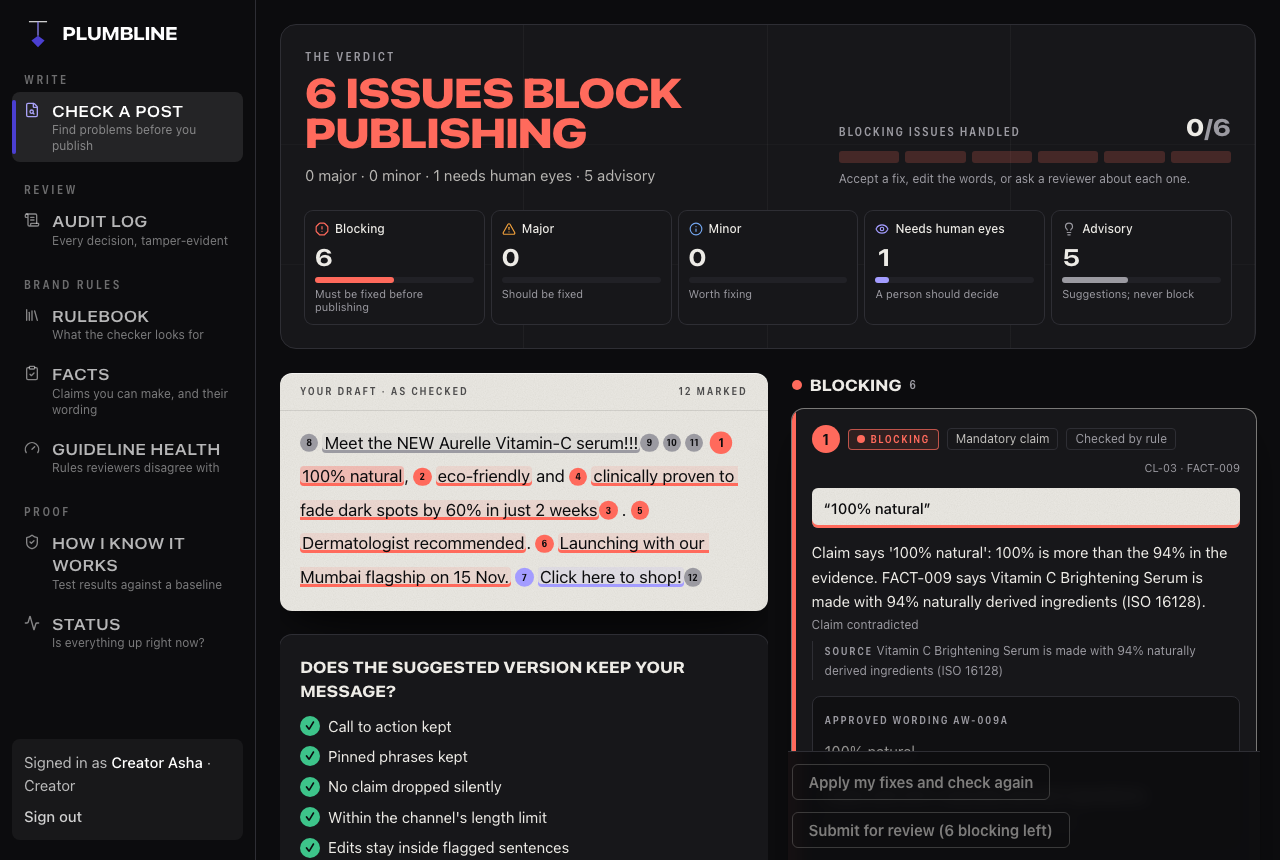
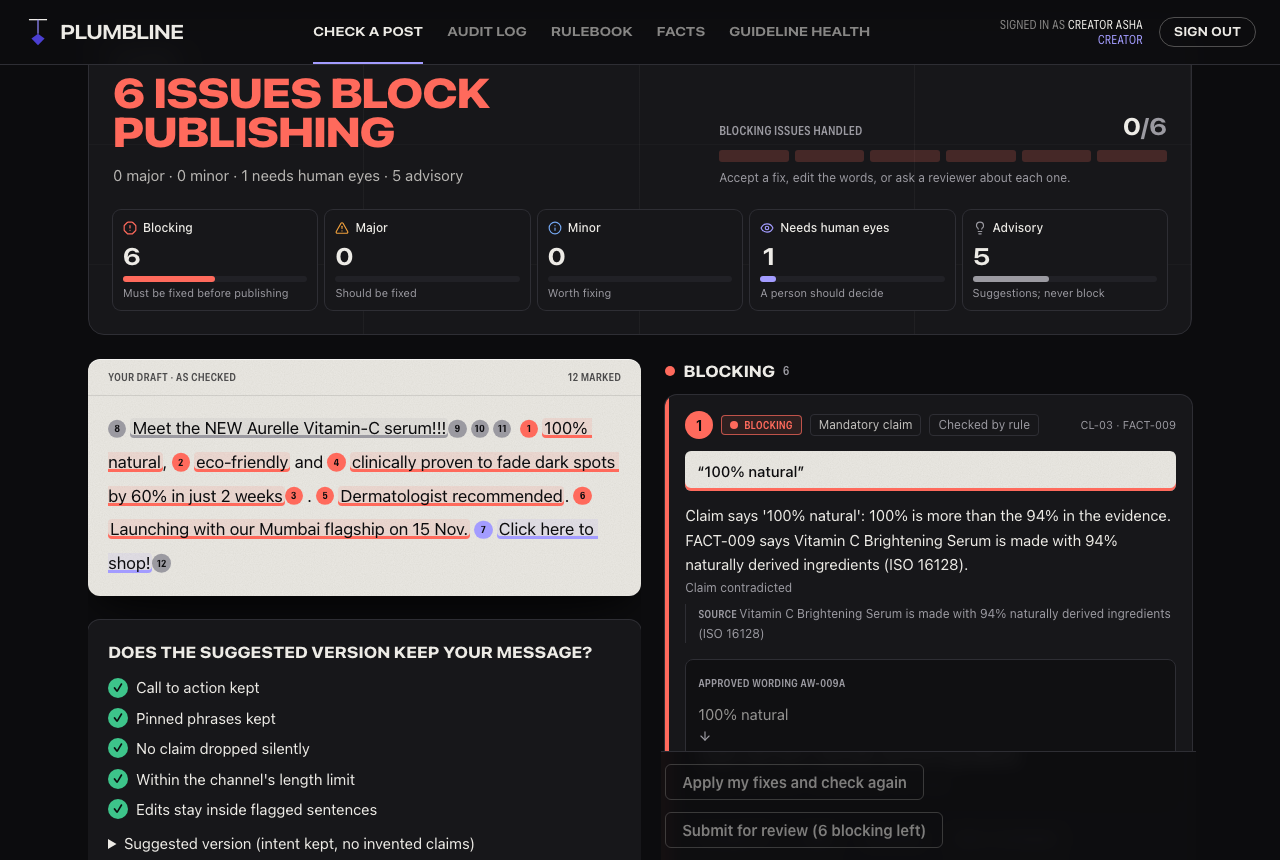
docs: Podium type and nav, photos; refreshed screenshots

diff --git a/docs/build-log.md b/docs/build-log.md
@@ -1085,3 +1085,40 @@ motion.
 
 **Checked:** type-check and lint clean; all 18 e2e tests pass on the branch preview and on
 production (`134ed8e`); laptop and phone widths reviewed page by page; README screenshots refreshed.
+
+## Task 22 follow-up 4: Podium's type and navigation, real photos
+
+**Feedback:** the left rail still looked AI-generated; the plumb-bob window cut its picture off so it made
+no sense; the sample banners weren't convincing; the fonts on the inside pages still looked generic.
+Instruction: follow podium.global's fonts, and use photos from the web if needed.
+
+**Measured on podium.global** (computed styles in the browser): every text is Futura: 700 uppercase with
+slightly negative tracking for headings (14–32 px), 400 in normal case for body (16 px); small labels are
+Univers Condensed 12 px uppercase with *normal* tracking. Navigation is the logo on the left and three bold
+uppercase links on the right.
+
+**Changes**
+- *Type:* Futura and Univers are paid licences, so Jost (an open Futura revival) is set the way Podium
+  sets Futura, and Archivo at its narrowest width stands in for Univers Condensed. The wide letter-spacing
+  on labels (a common AI-template tell) is gone; Podium's labels use none.
+- *Navigation:* the sidebar is replaced by a top bar: the mark, then the work pages in one line of bold
+  uppercase, an underline that slides to the current page, and the account on the right. Below 1280 px a
+  full-screen menu opens with large links grouped as before.
+- *Hero:* a real product photo (amber serum on orange, Unsplash) in full instead of a cropped diamond. Its
+  drip runs straight up out of the frame as the plumb line; the ad's white headline is boxed with the
+  contrast finding. White on that orange measures **1.96:1** (sampled from the photo), which is the number
+  the finding quotes.
+- *Sample content:* six cards rebuilt as real formats (Instagram post, web banner, email, influencer
+  post, product page, ad) with photos, and the flagged words underlined the way the checker marks them.
+  The finding sits under each card instead of a solid red slab.
+
+**Evaluation (what didn't work as assumed)**
+- A web-banner card first claimed a contrast ratio for white text over a busy photo. Sampling showed it
+  ranged 1.0–7.0:1, so no single number was honest; that card now carries a claim finding (FACT-014).
+- The new `.jpg` photos were redirected to the sign-in page: the middleware's matcher only exempted
+  `png|svg|ico`. It now exempts `jpg|jpeg|webp` too.
+- The phone menu rendered 72 px tall: the header's backdrop blur makes it the containing block for fixed
+  children. The menu now renders beside the header.
+
+**Checked:** type-check and lint clean; 18/18 e2e on the preview and on production (`acf02e7`); laptop and
+phone widths reviewed; screenshots refreshed. Photo credits are in the README.

diff --git a/README.md b/README.md
@@ -40,7 +40,7 @@ guidelines make brands *and* endorsers liable for misleading claims, with penalt
 - **Improve the guidelines.** Guideline health shows which rules reviewers keep overruling and which
   have earned the right to block (Wilson 95% lower bound of agreement ≥ 0.80).
 
-![Role picker](docs/screenshots/login.png)
+![Landing page: a sample ad with the contrast finding Plumbline raises on it](docs/screenshots/login.png)
 
 ## How it works
 
